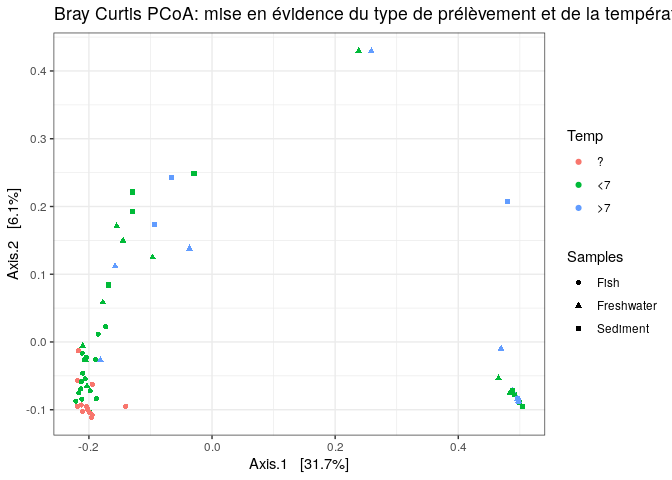
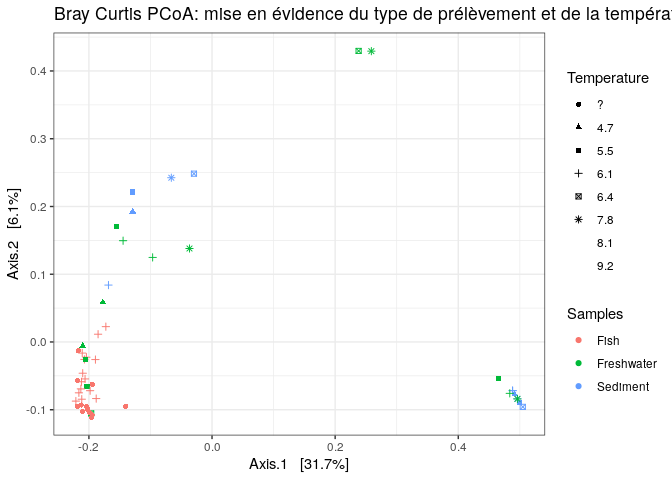
final

diff --git a/CC3r.md b/CC3r.md
@@ -112,9 +112,9 @@ head(out)
     ## SRR14616922_1.fastq    22738      9437
     ## SRR14616923_1.fastq    21141      4777
 
-#### Amorces de 50 et 55 pb, pas de truncLen légé car soucis au niveau du mergers.
+#### Amorces de 50 et 55 pb, truncLen légé car soucis au niveau du mergers.
 
-#### V3 and V4 regions
+#### V3 and V4 regionsn nécessité de garderau moin 250pb pour la suite ..
 
 #### sens: 5′-TCGTCGGCAGCGTCAGATGTGTATAAGAGACAGCCTACGGGNGGCWGCAG-3′
 
@@ -449,7 +449,7 @@ head(mergers[[1]])
     ## 5       427       2       4      0         0      0     NA   TRUE
     ## 6       408       1       3      0         0      0     NA   TRUE
 
-#### Impossible de merges les séquences, la commande ‘justConcatenate’ permet de les mettres une a une avec des NNNNN a l’endroit de l’overlap.
+#### Impossible de merges les séquences, la commande ‘justConcatenate’ permet de les mettres une a une avec un spacer NNNNN a l’endroit de l’overlap.
 
 # Construct sequence table
 
@@ -467,6 +467,12 @@ table(nchar(getSequences(seqtab)))
     ## 
     ##  180 
     ## 3392
+
+#### 2ème ligne: nombre de caractères
+
+#### 3ème ligne: nombre de séquences qui ont ce nombre de caractères
+
+#### Cela permet de vérifier que l’alignement a bien été réalisé
 
 # Remove chimeras
 
@@ -881,7 +887,17 @@ plot_richness(ps, x="Samples", measures=c("Shannon", "Simpson"), color="code_nam
 
 ![](CC3r_files/figure-gfm/unnamed-chunk-28-1.png)<!-- -->
 
-#### Les echantillons sont plutot regroupés, neanmoins ceux provenant des poissons sont légèrement a part des autres. Les populations bactiriennes sont pour la plupart communes mais varient légrement pour les poissons.
+#### Les echantillons sont plutot regroupés, neanmoins ceux provenant des poissons sont légèrement a part des autres. Les populations bactériennes sont pour la plupart communes mais varient légrement pour les poissons.
+
+#### L’analyse avec les différents paramtre (o2, profondeur, température, pH) ne révle rien de représentatif.
+
+``` r
+plot_richness(ps, x="code_name", measures=c("Shannon", "Simpson"), color="Samples", shape="Temp")
+```
+
+![](CC3r_files/figure-gfm/unnamed-chunk-29-1.png)<!-- -->
+
+#### Globalement les échantillons provenant de poissons ont une diversité alpha plus faible que ceux de la colonne d’eau ou de sédiments.
 
 ``` r
 ps.prop <- transform_sample_counts(ps, function(otu) otu/sum(otu))
@@ -889,7 +905,7 @@ ord.jac.bray <- ordinate(ps.prop, method="PCoA", distance="bray")
 plot_ordination(ps.prop, ord.jac.bray, color="Samples", title="Bray Curtis PCoA: mise en évidence du type de prélèvement")
 ```
 
-![](CC3r_files/figure-gfm/unnamed-chunk-29-1.png)<!-- -->
+![](CC3r_files/figure-gfm/unnamed-chunk-30-1.png)<!-- -->
 
 #### Les echantillons provenant des poissons sont regroupés entre eux. Ceux provenant de la colonne d’eau et des sédiments sont entre eux et formes 2 clusters distincts.
 
@@ -899,7 +915,7 @@ ord.bray.bray2 <- ordinate(ps.prop2, method="PCoA", distance="bray")
 plot_ordination(ps.prop2, ord.bray.bray2, color="Localisation", title="Bray Curtis PCoA: mise en évidence du type et localisation de prélèvement ", shape="Samples")
 ```
 
-![](CC3r_files/figure-gfm/unnamed-chunk-30-1.png)<!-- -->
+![](CC3r_files/figure-gfm/unnamed-chunk-31-1.png)<!-- -->
 
 #### La localisation d’echantillonage ne semble par etre un paramètre influcencant les populations.
 
@@ -909,9 +925,9 @@ ord.bray.bray2 <- ordinate(ps.prop2, method="PCoA", distance="bray")
 plot_ordination(ps.prop2, ord.bray.bray2, color="Oxygen", title="Bray Curtis PCoA: mise en évidence du type de prélèvement et de l'oxygen", shape="Samples")
 ```
 
-![](CC3r_files/figure-gfm/unnamed-chunk-31-1.png)<!-- -->
+![](CC3r_files/figure-gfm/unnamed-chunk-32-1.png)<!-- -->
 
-#### Le taux d’oxygene ne semble par etre un paramètre influcencant les populations.
+#### Le taux d’oxygene ne semble par etre un paramètre influcencant les populations. Neamoins un possible regroupement autour de 4% d’o2 dissout est repérable.
 
 ``` r
 ps.prop3 <- transform_sample_counts(ps, function(otu) otu/sum(otu))
@@ -923,7 +939,7 @@ plot_ordination(ps.prop3, ord.bray.bray3, color="Samples", title="Bray Curtis PC
     ## more than 6 becomes difficult to discriminate; you have 8. Consider
     ## specifying shapes manually if you must have them.
 
-![](CC3r_files/figure-gfm/unnamed-chunk-32-1.png)<!-- -->
+![](CC3r_files/figure-gfm/unnamed-chunk-33-1.png)<!-- -->
 
 #### Echelle de temperature trop grande, interprétation avec \> et \< a 7 degré.
 
@@ -933,7 +949,7 @@ ord.bray.bray4 <- ordinate(ps.prop4, method="PCoA", distance="bray")
 plot_ordination(ps.prop4, ord.bray.bray4, color="Temp", title="Bray Curtis PCoA: mise en évidence du type de prélèvement et de la température (>< 7°C)", shape="Samples")
 ```
 
-![](CC3r_files/figure-gfm/unnamed-chunk-33-1.png)<!-- -->
+![](CC3r_files/figure-gfm/unnamed-chunk-34-1.png)<!-- -->
 
 #### Les echantillons de temperatures inconnues se regreoupe avec ceux \<7. La variation de plus ou moins 7 degré ne semble pas avoir d’impact.
 
@@ -943,7 +959,7 @@ ord.bray.bray5 <- ordinate(ps.prop5, method="PCoA", distance="bray")
 plot_ordination(ps.prop5, ord.bray.bray5, color="pH", title="Bray Curtis PCoA: mise en évidence du type de prélèvement et du pH", shape="Samples")
 ```
 
-![](CC3r_files/figure-gfm/unnamed-chunk-34-1.png)<!-- -->
+![](CC3r_files/figure-gfm/unnamed-chunk-35-1.png)<!-- -->
 
 #### Le pH ne semble par etre un paramètre influcencant les populations.
 
@@ -953,7 +969,7 @@ ord.bray.bray6 <- ordinate(ps.prop6, method="PCoA", distance="bray")
 plot_ordination(ps.prop6, ord.bray.bray6, color="Profondeur", title="Bray Curtis PCoA: mise en évidence du type de prélèvement et de la profondeur", shape="Samples")
 ```
 
-![](CC3r_files/figure-gfm/unnamed-chunk-35-1.png)<!-- -->
+![](CC3r_files/figure-gfm/unnamed-chunk-36-1.png)<!-- -->
 
 #### La profondeur ne semble par etre un paramètre influcencant les populations.
 
@@ -964,7 +980,7 @@ ps.top20 <- prune_taxa(top20, ps.top20)
 plot_bar(ps.top20, fill="Family") + facet_wrap(~Samples, scales="free_x")
 ```
 
-![](CC3r_files/figure-gfm/unnamed-chunk-36-1.png)<!-- -->
+![](CC3r_files/figure-gfm/unnamed-chunk-37-1.png)<!-- -->
 
 #### Les Vibrio sont la famille dominante chez les poissons, dans la colonne d’eau et les sédiments. L’abondance est généralement plus élevé chez les poissons et au plus faible dans les sédiments.
 
@@ -975,7 +991,7 @@ ps.top20 <- prune_taxa(top20, ps.top20)
 plot_bar(ps.top20, x="pH", fill="Family") + facet_wrap(~Samples, scales="free_x")
 ```
 
-![](CC3r_files/figure-gfm/unnamed-chunk-37-1.png)<!-- -->
+![](CC3r_files/figure-gfm/unnamed-chunk-38-1.png)<!-- -->
 
 #### les pH extrêmes sembles inhibiter les croissances bactériennes, avec les meilleures abondance a pH 9.55-9.56.
 
@@ -986,7 +1002,7 @@ ps.top20 <- prune_taxa(top20, ps.top20)
 plot_bar(ps.top20, x="Temp", fill="Family") + facet_wrap(~Samples, scales="free_x")
 ```
 
-![](CC3r_files/figure-gfm/unnamed-chunk-38-1.png)<!-- -->
+![](CC3r_files/figure-gfm/unnamed-chunk-39-1.png)<!-- -->
 
 #### Les abondances sembles plus fortes avec une température inférieure a 7 degré.
 
@@ -997,7 +1013,7 @@ ps.top20 <- prune_taxa(top20, ps.top20)
 plot_bar(ps.top20, x="Oxygen", fill="Family") + facet_wrap(~Samples, scales="free_x")
 ```
 
-![](CC3r_files/figure-gfm/unnamed-chunk-39-1.png)<!-- -->
+![](CC3r_files/figure-gfm/unnamed-chunk-40-1.png)<!-- -->
 
 #### Les abondances sembles legrement plus fortes avec un taux d’oxygne de 4-4.1.
 
@@ -1008,7 +1024,7 @@ ps.top20 <- prune_taxa(top20, ps.top20)
 plot_bar(ps.top20, x="Profondeur", fill="Family") + facet_wrap(~Samples, scales="free_x")
 ```
 
-![](CC3r_files/figure-gfm/unnamed-chunk-40-1.png)<!-- -->
+![](CC3r_files/figure-gfm/unnamed-chunk-41-1.png)<!-- -->
 
 #### pour les echantillons de la colonne d’eau et le sédiment, les abondances sont les memes en fonction de la profondeur, neanmoins il y a une variation de composition avec une présence de Peptostreptococcaceae de 0-1m de pronfondeur dans le sédiment. Dans la colonne d’eau présence d’Aeormonadaceae de 0-1 mètre de pronfeur, et plus grande abondance de Leptotrichiaceae a 7-10 mtre. Chez les poissons plus forte abondance à 7-10 mtre de profondeur et présence de Streptococcaceae.
 
@@ -1019,17 +1035,23 @@ ps.top20 <- prune_taxa(top20, ps.top20)
 plot_bar(ps.top20, x="Localisation", fill="Family") + facet_wrap(~Samples, scales="free_x")
 ```
 
-![](CC3r_files/figure-gfm/unnamed-chunk-41-1.png)<!-- -->
+![](CC3r_files/figure-gfm/unnamed-chunk-42-1.png)<!-- -->
 
 #### Les poissons sont echantillonés uniquement aux localisations Edremit et Gevas-Inkoy. Les abondances bactériennes pour les eaux et les sédiments sont relativements les memes. Uniquement les echantillons provenant de poisson sont largement suppérieurs en terme d’abondance.
 
+#### Les echantillons d’eaux et de sédiments de Edremit et Gevas ont des abondances bien plus faible, c’est donc bien l’intéraction avec les poissons qui augmente cette abondance.
+
 ### Conclusion
 
-#### L’alpha et la Beta diversité ne sont réellement influcencé que par l’endroit d’échantillon: poisson, eau ou sédiment. Avec un regroupement précis des echantillon fish et une disperssion groupé de ceux d’eaux et sédiments. Aucun relevé représentatif d’influence du pH, de l’oxygne, de la température ou de la profondeur.
+#### L’alpha et la Beta diversité ne sont réellement influcencés que par le type d’échantillon: poisson, eau ou sédiment. Avec un regroupement précis des echantillon fish et une disperssion groupé de ceux d’eaux et sédiments. Aucun relevé représentatif d’influence du pH, de l’oxygne, de la température ou de la profondeur.
 
-#### Les Vibrio sont majoritaire en toutes conditions. Les plus grandes abondances de microorganismes sont ceux echantillonés dans les poissons, cela peut s’expliquer par l’intéraction des bactéries avec l’organisme hote, et notamment par la présence des bactéries intestinales. Les vibrio sont en effet une famille de bastéries typiques de l’eaux de mer, des estuaires et des intestins des animaux marins. Ceci explique donc leurs présence dans nos echantillons, car ce sont bien des lacs salés qui ont ete analysés.
+#### Possible influence sur l’oxygène, du pH et de la température sur les abondances, représentant probablement des conditions de développement favorable pour les procaryotes étudiés.
 
-#### Du fait de l’impossibilité d’overlap les séquences, et de l’utilisation de ‘justConcatenate’, il est possible que ces résultats ne soit pas exacte. Il aurait peut etre été interessant de séquencer une région de 16S plus grande pour possiblement éviter ce soucis. (Je n’ai pas trouvé la solution en terme de code pour regler ceci)
+#### Les Vibrio sont majoritaires en toutes conditions. Les plus grandes abondances de microorganismes sont ceux echantillonés dans les poissons, cela peut s’expliquer par l’intéraction des bactéries avec l’organisme hote, et notamment par la présence de ces bactéries dans le système digestif des poissons. Les vibrio sont en effet une famille de bastéries typiques de l’eaux de mer, des estuaires et des intestins des animaux marins. Ceci explique donc leurs présence dans nos echantillons, car ce sont bien des lacs salés qui ont ete analysés.
+
+#### Il aurait été interessant d’échantilloné des poissons d’autres lacs pour pouvoir ainssi les comparer entre eux.
+
+#### Du fait de l’impossibilité d’overlap les séquences, et de l’utilisation de ‘justConcatenate’, il est possible que ces résultats ne soit pas exactes. Il aurait peut etre été interessant de séquencer une région de 16S plus grande pour possiblement éviter ce soucis. (Je n’ai pas trouvé la solution en terme de code pour regler ceci)
 
 # TEST
 
@@ -1051,21 +1073,23 @@ plyr::ddply(prevdf, "Phylum", function(df1){cbind(mean(df1$Prevalence),sum(df1$P
 ```
 
     ##                Phylum        1    2
-    ## 1    Actinobacteriota 1.000000   17
-    ## 2        Bacteroidota 1.000000   88
+    ## 1    Actinobacteriota 1.000000   18
+    ## 2        Bacteroidota 1.000000   84
     ## 3  Caldatribacteriota 1.000000    1
     ## 4    Campylobacterota 1.000000    1
-    ## 5         Chloroflexi 1.000000   20
-    ## 6       Cyanobacteria 1.930693  195
+    ## 5         Chloroflexi 1.000000   18
+    ## 6       Cyanobacteria 1.940000  194
     ## 7        Deinococcota 1.000000    5
-    ## 8    Desulfobacterota 1.041958  149
-    ## 9          Firmicutes 1.286154  418
-    ## 10     Fusobacteriota 1.764706   30
-    ## 11    Patescibacteria 1.000000    3
-    ## 12    Planctomycetota 1.000000    2
-    ## 13     Proteobacteria 2.302832 1057
-    ## 14  Verrucomicrobiota 1.000000    3
-    ## 15              WOR-1 1.000000    1
+    ## 8    Desulfobacterota 1.040541  154
+    ## 9          Firmicutes 1.281346  419
+    ## 10     Fusobacteriota 1.823529   31
+    ## 11             LCP-89 1.000000    1
+    ## 12        Myxococcota 1.000000    1
+    ## 13    Patescibacteria 1.000000    3
+    ## 14    Planctomycetota 1.000000    2
+    ## 15     Proteobacteria 2.295652 1056
+    ## 16  Verrucomicrobiota 1.000000    3
+    ## 17              WOR-1 1.000000    1
 
 ``` r
 ps1 = subset_taxa(ps)
@@ -1073,10 +1097,10 @@ ps1
 ```
 
     ## phyloseq-class experiment-level object
-    ## otu_table()   OTU Table:         [ 1186 taxa and 61 samples ]
+    ## otu_table()   OTU Table:         [ 1190 taxa and 61 samples ]
     ## sample_data() Sample Data:       [ 61 samples by 8 sample variables ]
-    ## tax_table()   Taxonomy Table:    [ 1186 taxa by 6 taxonomic ranks ]
-    ## refseq()      DNAStringSet:      [ 1186 reference sequences ]
+    ## tax_table()   Taxonomy Table:    [ 1190 taxa by 6 taxonomic ranks ]
+    ## refseq()      DNAStringSet:      [ 1190 reference sequences ]
 
 ``` r
 prevdf1 = subset(prevdf, Phylum %in% get_taxa_unique(ps1, "Phylum"))
@@ -1087,7 +1111,7 @@ ggplot(prevdf1, aes(TotalAbundance, Prevalence / nsamples(ps),color=Phylum)) +
   facet_wrap(~Phylum) + theme(legend.position="none") 
 ```
 
-![](CC3r_files/figure-gfm/unnamed-chunk-45-1.png)<!-- -->
+![](CC3r_files/figure-gfm/unnamed-chunk-46-1.png)<!-- -->
 
 ``` r
 abund <- otu_table(ps)
@@ -1129,4 +1153,4 @@ ggplot(abund_df %>%
   scale_color_brewer(palette = "Set2")
 ```
 
-![](CC3r_files/figure-gfm/unnamed-chunk-48-1.png)<!-- -->
+![](CC3r_files/figure-gfm/unnamed-chunk-49-1.png)<!-- -->
